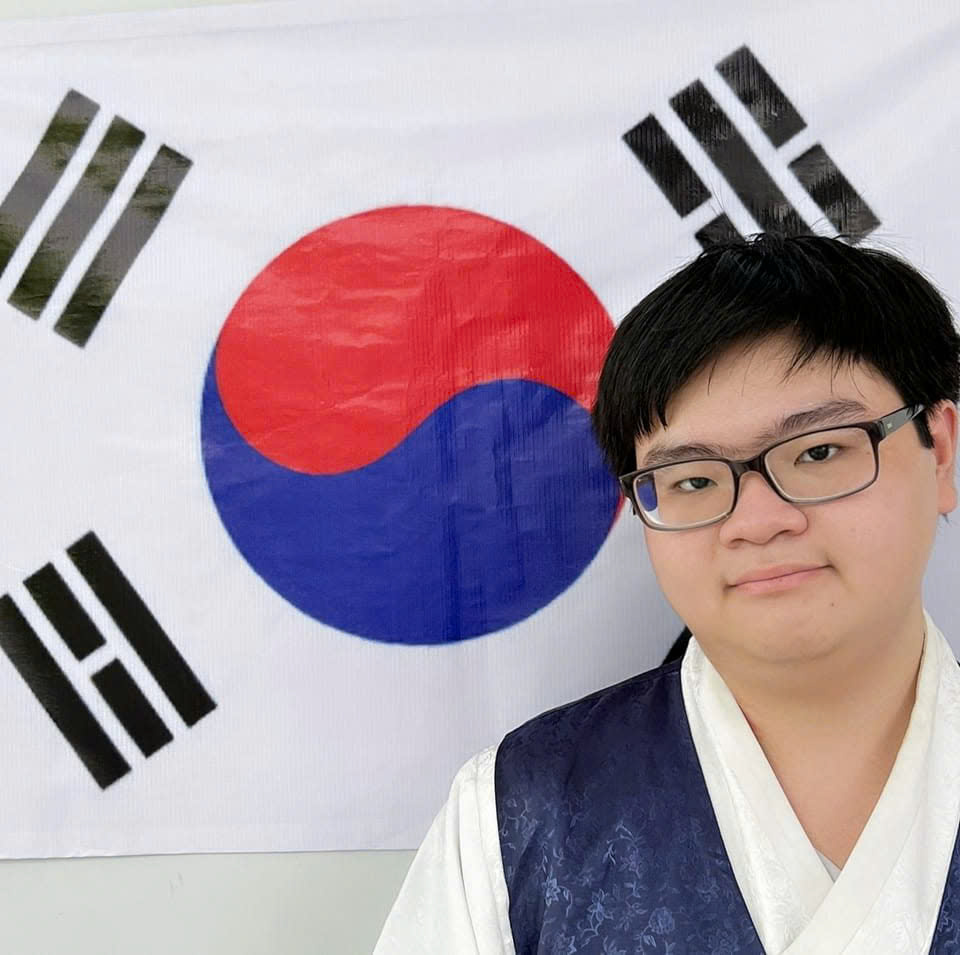
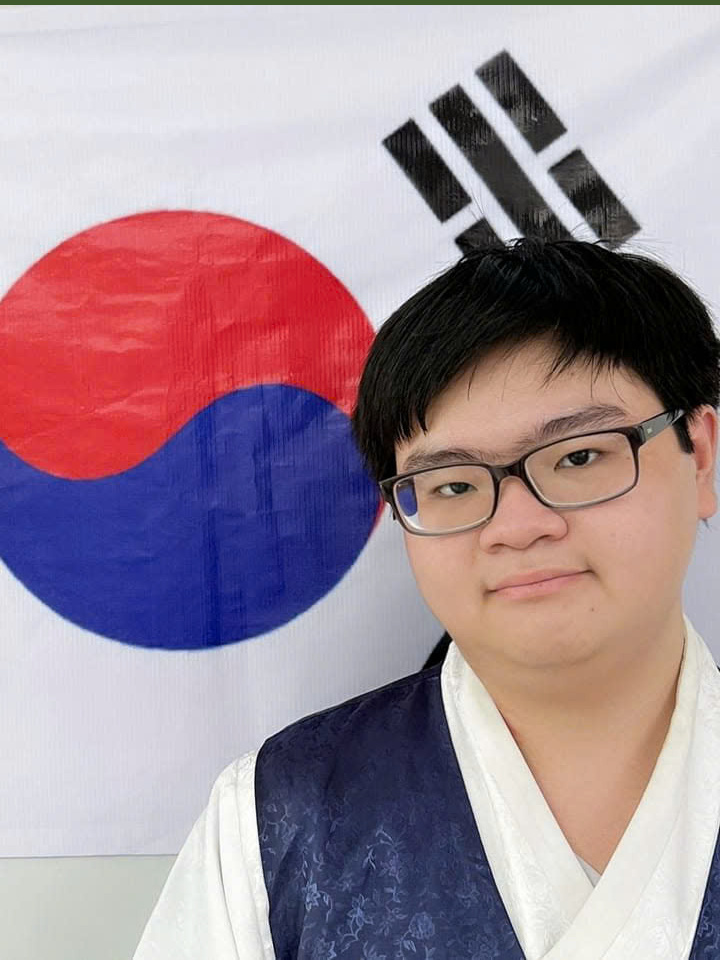
Added area mapping; Edit all images to use the same ratio; Profile image width set to 400; Group image width set to 800

diff --git a/Group1/default.html b/Group1/default.html
@@ -24,9 +24,21 @@
         <!-- Group section -->
         <section class="hero">
             <div class="group-photo">
-                <img src="image/groupPhoto.jpg""  alt="Group Photo">
-            </div>
+                <img src="image/groupPhoto.jpg"  alt="Group Photo" width="800" usemap="#groupPhoto">
+                <map name="groupPhoto">
+                    <!--
+                        Created by Online Image Map Editor (http://www.maschek.hu/imagemap/index)
 
+                        <area shape="poly" coords="8,369,144,262,261,261,377,312,438,450,417,481,327,673,527,781,525,946,8,947" href="members/22120271/22120271.html"/>
+                        <area shape="poly" coords="532,946,1196,944,1166,838,1033,734,1004,631,914,629,859,412,736,338,541,431" href="members/22120289/22120289.html"/>
+                        <area shape="poly" coords="937,315,1052,288,1187,387,1176,585,1266,619,1266,940,1209,940,1175,829,1037,729,1008,615,920,617,869,415" href="members/22120312/22120312.html"/>
+                    -->
+                    <area shape="poly" coords="5,230,90,163,163,163,235,195,273,281,260,300,204,420,329,488,328,591,5,591" href="members/22120271/22120271.html"/>
+                    <area shape="poly" coords="332,591,747,590,728,523,645,458,627,394,571,393,536,257,460,211,338,269" href="members/22120289/22120289.html"/>
+                    <area shape="poly" coords="585,196,657,180,741,241,735,365,791,386,791,587,755,587,734,518,648,455,630,384,575,385,543,259" href="members/22120312/22120312.html"/>
+                </map>
+            </div>
+            
             <div class="group-info">
                 <h2>Member information</h2>
                 <ul>
@@ -76,5 +88,20 @@
     <footer>
         <p>&copy; Group Web Application Development</p>
     </footer>
+    <script>
+        function scaleMappingArea(coords, fromWidth, fromHeight, toWidth, toHeight){
+            let coordsArr = coords.split(",").map(Number);
+            let scaledCoords = coordsArr.map((coord, index) => {
+                //Even coords are x component
+                if (index % 2 == 0){
+                    return coord * toWidth / fromWidth;
+                //Odd coords are y component
+                } else {
+                    return coord * toHeight / fromHeight;
+                }
+            })
+            return scaledCoords.join(",");
+        }
+    </script>
 </body>
 </html>

diff --git a/Group1/members/22120271/22120271.html b/Group1/members/22120271/22120271.html
@@ -19,7 +19,7 @@
         <section class="member-info">
             <div class="container">
                 <div class="profile-section">
-                    <img src="images/22120271.jpg" alt="Dương Hoàng Hồng Phúc" class="profile-pic">
+                    <img src="images/22120271.jpg" alt="Dương Hoàng Hồng Phúc" width="400" class="profile-pic">
                 </div>
                 <div class="details-section">
                     <h2>Dương Hoàng Hồng Phúc</h2>

diff --git a/Group1/members/22120289/22120289.html b/Group1/members/22120289/22120289.html
@@ -19,7 +19,7 @@
         <section class="member-info">
             <div class="container">
                 <div class="profile-section">
-                    <img src="images/22120289.jpg" alt="Hồ Ngọc Trung Quân" class="profile-pic">
+                    <img src="images/22120289.jpg" alt="Hồ Ngọc Trung Quân" width="400" class="profile-pic">
                 </div>
                 <div class="details-section">
                     <h2>Hồ Ngọc Trung Quân</h2>

diff --git a/Group1/members/22120312/22120312.html b/Group1/members/22120312/22120312.html
@@ -19,7 +19,7 @@
         <section class="member-info">
             <div class="container">
                 <div class="profile-section">
-                    <img src="images/22120312.jpg" alt="Nguyễn Ngọc Sơn" class="profile-pic">
+                    <img src="images/22120312.jpg" alt="Nguyễn Ngọc Sơn" width="400" class="profile-pic">
                 </div>
                 <div class="details-section">
                     <h2>Nguyễn Ngọc Sơn</h2>

diff --git a/Group1/group-photo-scaler.py b/Group1/group-photo-scaler.py
@@ -1,0 +1,29 @@
+def scaleMappingArea(coords, fromWidth, fromHeight, toWidth, toHeight):
+    coordsArr = list(map(int, coords.split(",")))
+    scaledCoords = []
+    
+    for index, coord in enumerate(coordsArr):
+        #Even coords are x component
+        if (index % 2 == 0):
+            scaledCoords.append(int(coord * toWidth / fromWidth))
+        #Odd coords are y component
+        else:
+            scaledCoords.append(int(coord * toHeight / fromHeight))
+    
+    return ",".join(map(str,scaledCoords))
+dim1 = input("Original dimension: ")
+x1, y1 = list(map(int, dim1.split("x")))
+ratio = 1.0 * x1 / y1
+dim2 = input("Target dimension: ")
+x2, y2 = dim2.split("x")
+if x2 == "" and y2 != "":
+    y2 = int(y2)
+    x2 = int(ratio * y2)
+elif x2 != "" and y2 == "":
+    x2 = int(x2)
+    y2 = int(1.0 / ratio * x2)
+else:
+    x2 = int(x2)
+    y2 = int(y2)
+coordsInput = input("Coordinates: ")
+print("-> ", scaleMappingArea(coordsInput, x1, y1, x2, y2))
